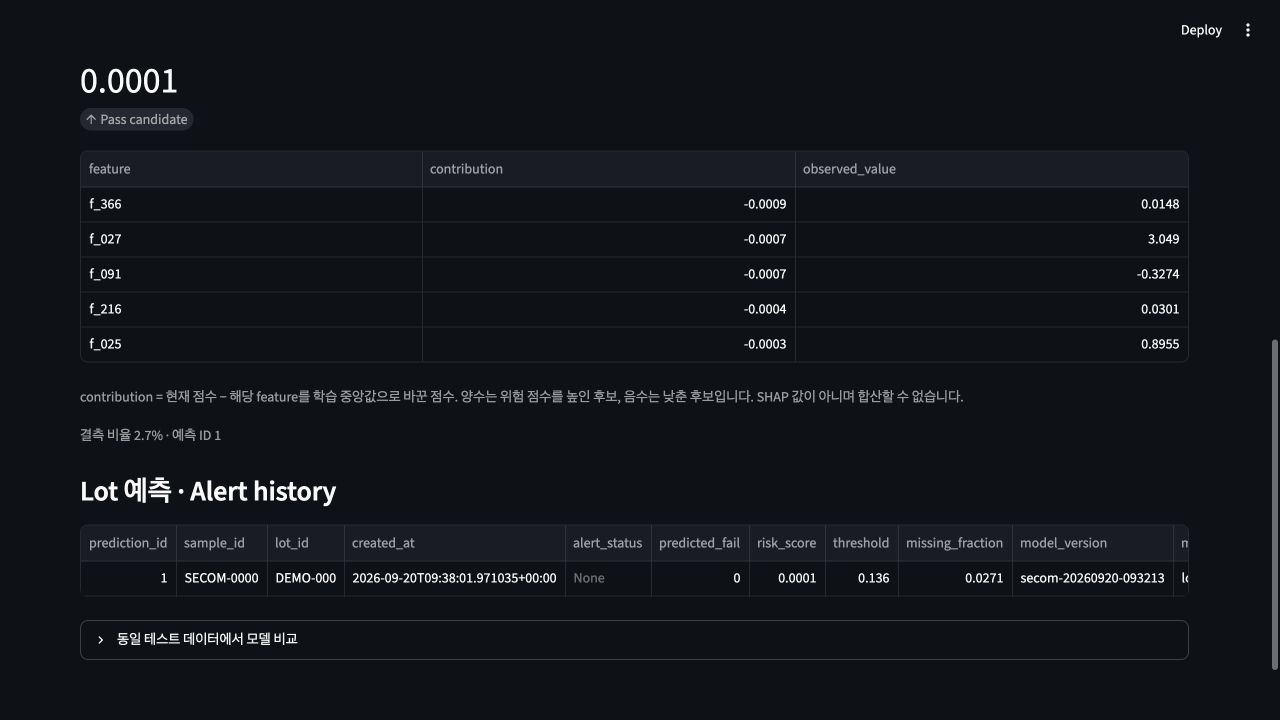
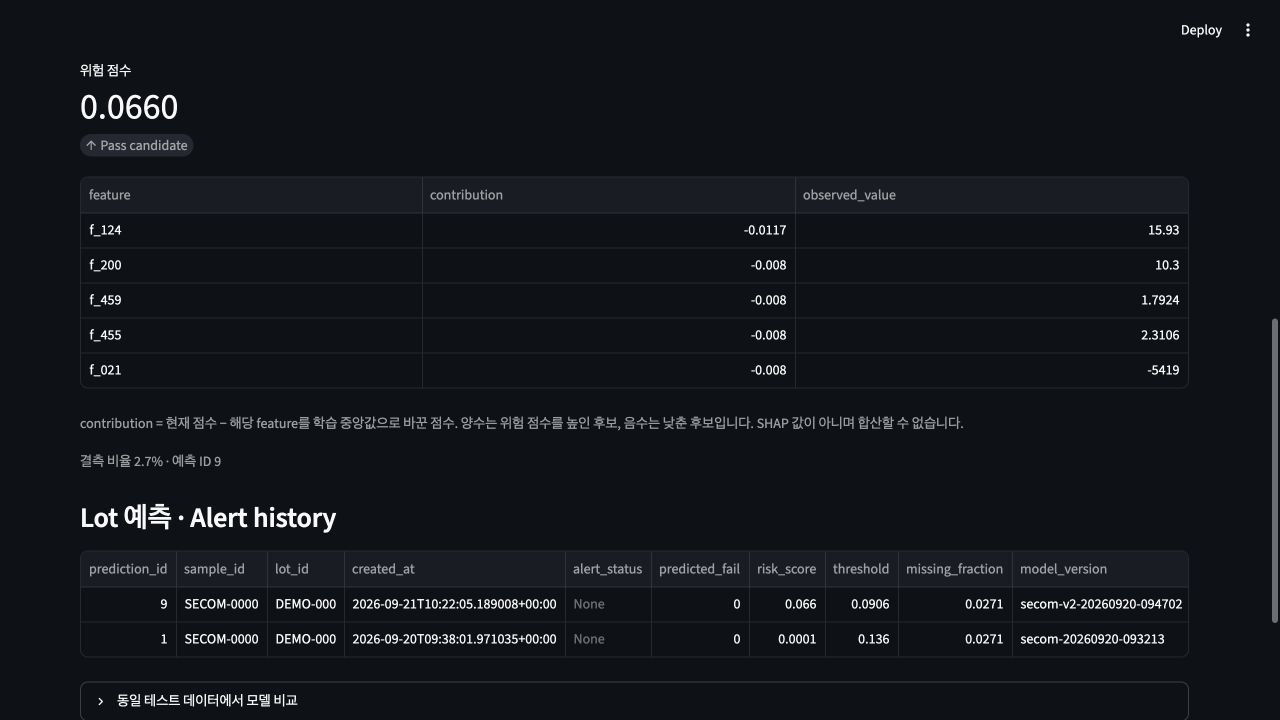
Document successful CI and refresh v2 demonstration evidence

diff --git a/scripts/write_report.py b/scripts/write_report.py
@@ -27,6 +27,8 @@ for name, v in metrics.items():
 text = (
     """# SECOM Manufacturing AI
 
+[![Verify portfolio](https://github.com/lukemin-dev/semiconductor-manufacturing-ai/actions/workflows/ci.yml/badge.svg)](https://github.com/lukemin-dev/semiconductor-manufacturing-ai/actions/workflows/ci.yml)
+
 **반도체 공개 데이터의 불량 탐지, 원인 후보 설명, 예측·경보 추적을 연결한 재현 가능한 시스템.**
 
 Python · scikit-learn · XGBoost · FastAPI · PostgreSQL · Streamlit · Docker

diff --git a/docs/VERIFICATION.md b/docs/VERIFICATION.md
@@ -1,16 +1,19 @@
 # 실행 검증 기록
 
-## v2 로컬 검증
+## v2 검증 완료
 
 - macOS Python 3.12: pytest **9 passed**.
-- Ruff 기본 오류 검사 및 자동 포맷 확인.
-- 8개 후보 × 15 folds = 120개 fold 학습. 기존 test를 모델 선택에 사용하지 않음.
+- Linux ARM64 Docker + 실제 PostgreSQL 16: pytest **9 passed**.
+- Ruff 기본 오류 검사 및 포맷 검사 통과.
+- 8개 후보 × 15 folds = **120개 fold 학습**. 기존 test를 모델 선택에 사용하지 않음.
 - 시간순 split에 동일 timestamp가 겹치지 않음을 검증.
-- 실제 Linux/PostgreSQL 및 GitHub CI 결과는 마지막 검증 후 이 문서에 기록.
+- 브라우저에서 예측 → TOP5 → 이력 저장 확인. SECOM-0170 경보의 `open → acknowledged` 변경 및 예측값 유지 확인.
+- v1/v2 모델 버전의 과거 이력이 함께 보존됨을 확인.
+- GitHub Actions: [실제 성공한 실행 기록](https://github.com/lukemin-dev/semiconductor-manufacturing-ai/actions/runs/35503597000). PostgreSQL 테스트, Ruff, Compose 검증, Docker 빌드 통과. 검증한 코드 commit: `fe52cbbc212344b11454ec5ca2266fdefe591180`.
+- 마지막 문서·스크린샷 갱신은 기능 코드 변경을 포함하지 않음. 최신 실행 상태는 저장소 Actions에서 확인 가능.
 
 ## v1 기록
 
-- macOS 6 passed, PostgreSQL 통합 검사 3 passed, Linux Docker 6 passed.
-- 대시보드 예측·TOP5·이력 표시를 실제 브라우저에서 확인.
+macOS 6 passed, PostgreSQL 통합 검사 3 passed, Linux Docker 6 passed. 대시보드 예측·TOP5·이력 표시를 실제 브라우저에서 확인.
 
-테스트 통과는 모델의 높은 성능 또는 현장 적용 가능성을 의미하지 않습니다. 평가 결과와 한계는 README를 함께 확인하세요.
+테스트 도구의 deprecation 경고 2건은 실패가 아닙니다. 테스트 통과는 모델의 높은 성능 또는 현장 적용 가능성을 의미하지 않습니다. 평가 결과와 한계는 README를 함께 확인하세요.

diff --git a/docs/ROADMAP.md b/docs/ROADMAP.md
@@ -1,10 +1,20 @@
-# 다음 검증
+# 개선 진행 현황
 
-1. 학습 영역 안의 반복/중첩 교차검증으로 현재 모델 선택의 불안정성 확인.
-2. 시간순 홀드아웃으로 미래 데이터 일반화 평가. 실제 Lot·설비 키 확보 시 그룹 분할.
-3. 현장 검사 처리 용량 및 FN/FP 비용을 받은 뒤 임계값 정책 정의.
-4. 별도 검증 데이터에서 확률 보정 및 불확실성 분석.
-5. 공정 feature 의미 매핑과 원인 후보의 엔지니어 검토.
-6. 인증, 멱등키, migration 관리, 모델 배포 이력, drift 감시 추가.
+## 완료
 
-위 항목은 아직 수행한 성과가 아니며 현재 README의 성능을 대체하지 않습니다.
+- [x] 학습 영역 안의 5-fold × 3회 교차검증으로 모델 선정.
+- [x] fold 내부 feature 필터·ANOVA top-40 및 정규화 비교.
+- [x] OOF 경보량 상한 30% 안의 F2 최대 임계값 정책.
+- [x] 시간순 민감도 분석과 조건부 bootstrap 구간 기록.
+- [x] API·PostgreSQL·Dashboard 경보 확인 흐름.
+- [x] GitHub 공개 및 실제 CI 성공 확인.
+
+## 추가 데이터 또는 운영 요구사항이 필요한 다음 단계
+
+1. 기존 SECOM과 독립된 신규 시간대 데이터 검증. 실제 Lot·설비 키 확보 시 그룹 분할.
+2. 현장 검사 처리 용량 및 FN/FP 비용을 받은 뒤 임계값 정책 검증.
+3. 별도 검증 데이터에서 확률 보정 및 불확실성 분석.
+4. 공정 feature 의미 매핑과 원인 후보의 엔지니어 검토.
+5. 인증, 멱등키, migration 관리, 모델 승격·롤백, drift 감시, 변경 감사 로그 추가.
+
+체크되지 않은 후속 항목을 이미 수행한 성과로 표현하지 않습니다. 현재 결과만으로 실제 Fab 적용 가능성을 결론 내리지 않습니다.

diff --git a/README.md b/README.md
@@ -1,5 +1,7 @@
 # SECOM Manufacturing AI
 
+[![Verify portfolio](https://github.com/lukemin-dev/semiconductor-manufacturing-ai/actions/workflows/ci.yml/badge.svg)](https://github.com/lukemin-dev/semiconductor-manufacturing-ai/actions/workflows/ci.yml)
+
 **반도체 공개 데이터의 불량 탐지, 원인 후보 설명, 예측·경보 추적을 연결한 재현 가능한 시스템.**
 
 Python · scikit-learn · XGBoost · FastAPI · PostgreSQL · Streamlit · Docker
